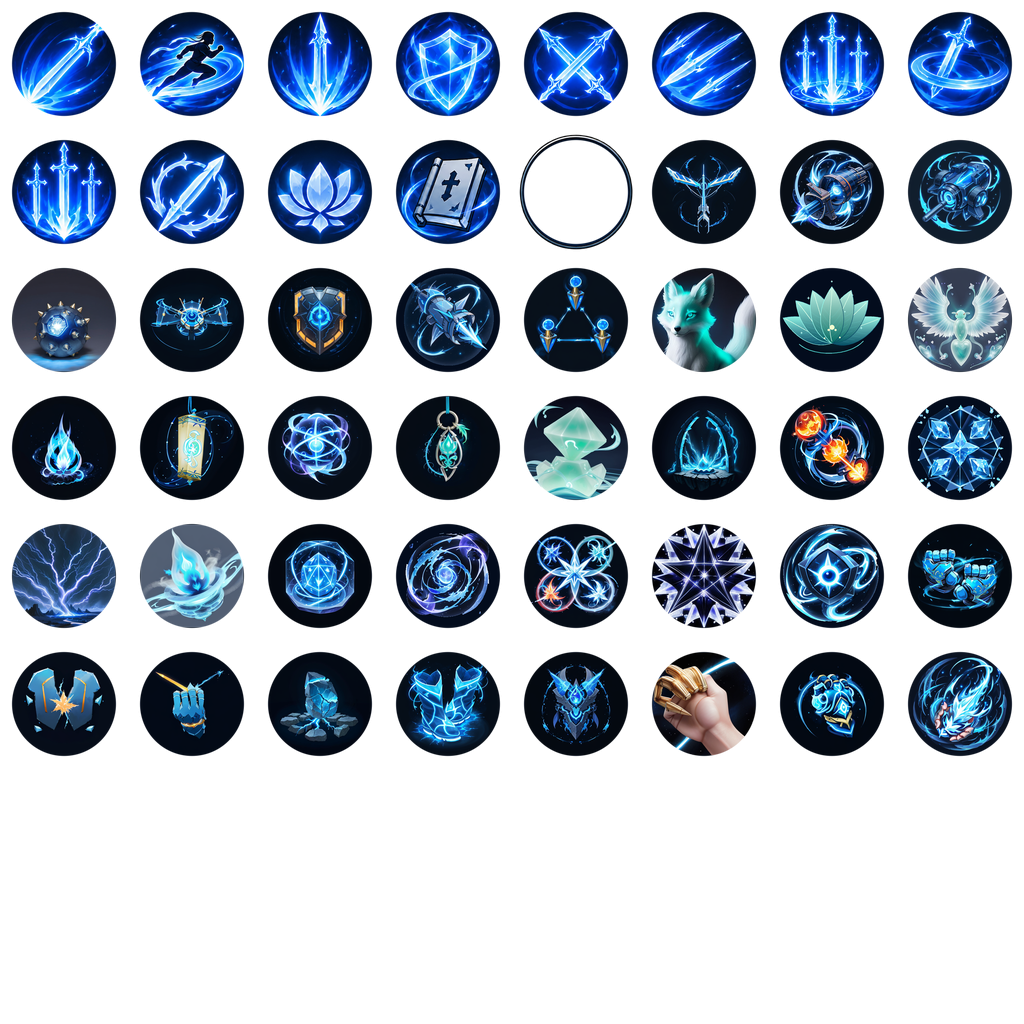
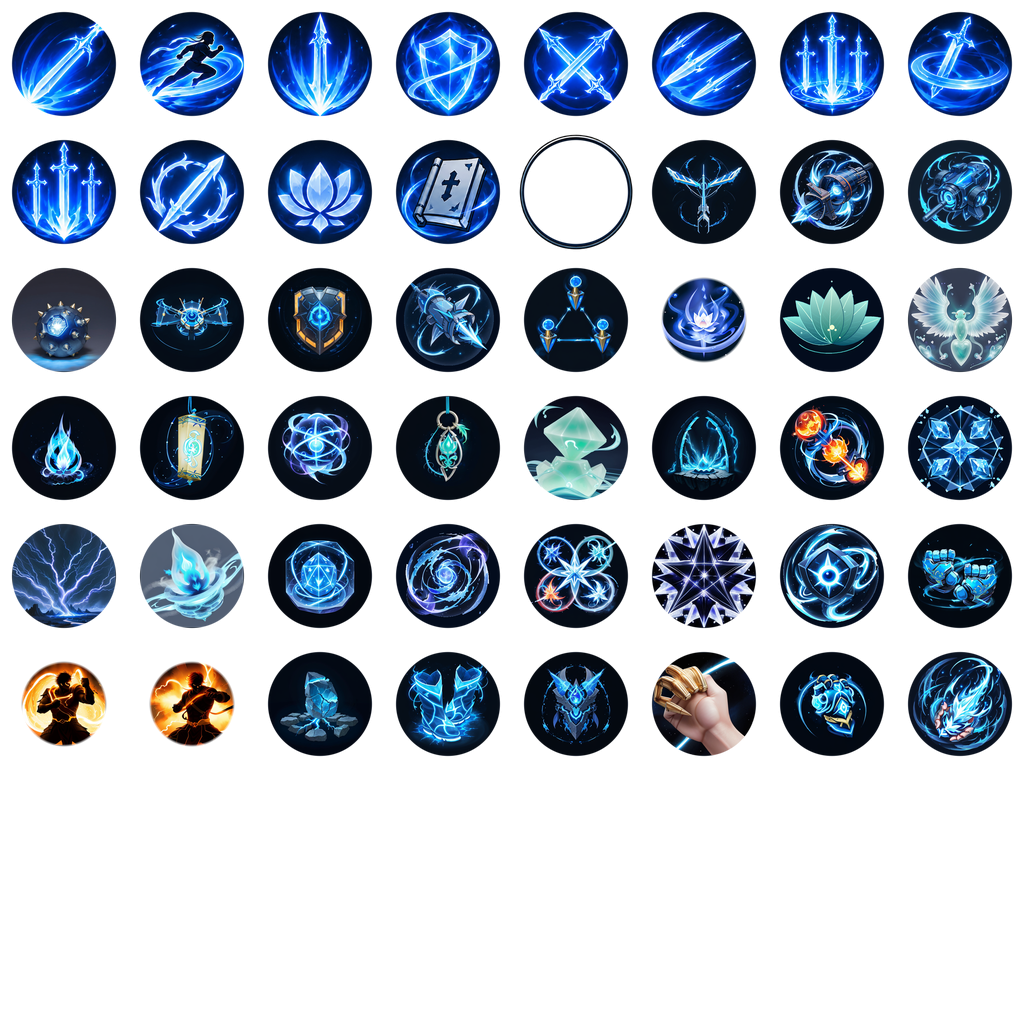
chore: lgo autopilot checkpoint character-hub-v35 - character-hub-demo-linked-inner-revisions-v35
Status: CONTINUE
Phase: character-hub-skill-artwork
Next action: Continue exact-reference Võ/Linh source corrections and item thumbnail ownership; retain shared frame, no inferred renaming.
Reason: Three demonstrated class-reference corrections in Player, not full class acceptance.

Validation:
- Graphics EditMode305/305 nofail/noskip
- Python51/51; RED design-link tests confirmed
- Player87frames; eye15Skill+1Potential
- Exactly3content changed;45modules preserved; PNG/manifest replay exact
- Runtime code/library/importer/frozen unchanged

Changed region(s): [[0.0, 0.625, 0.25, 0.75], [0.625, 0.25, 0.75, 0.375]]

diff --git a/tools/pack_lgo_skill_icons.py b/tools/pack_lgo_skill_icons.py
@@ -30,6 +30,48 @@ BASE_BYTE_BUDGET = 400000
 EXTRA_BYTE_BUDGET = 32768
 
 
+def read_design_bindings(document: dict, registry: Path, library: list[dict], artwork_ids: set[str]) -> list[dict] | None:
+    """Visual links are not gameplay approval; never infer a class or rename a skill."""
+    bindings = document.get('designBindings')
+    if bindings is None:
+        return None
+    if not isinstance(bindings, list) or not bindings:
+        raise ValueError('Design bindings must be a nonempty list')
+    skills = {skill['iconId']: skill for skill in library}
+    seen, result = set(), []
+    for entry in bindings:
+        if not isinstance(entry, dict):
+            raise ValueError('Design binding must be an object')
+        key = entry.get('iconId')
+        if not isinstance(key, str) or key not in artwork_ids or key in seen:
+            raise ValueError('Design binding has duplicate or unregistered artwork')
+        skill = skills[key]
+        if entry.get('classId') != skill['classId'] or entry.get('runtimeName') != skill['name']:
+            raise ValueError('Design binding class/name does not match the unchanged skill library')
+        if entry.get('relation') != 'EXACT_LABEL_VISUAL_ONLY' or entry.get('demoLabel') != skill['name']:
+            raise ValueError('Design label must match exactly; aliases or gameplay approval require a separate decision')
+        ref = entry.get('reference')
+        if not isinstance(ref, dict) or not isinstance(ref.get('path'), str) or not ref['path']:
+            raise ValueError('Design reference missing')
+        path = (registry.parent / ref['path']).resolve()
+        if not path.is_file() or hashlib.sha256(path.read_bytes()).hexdigest() != ref.get('sha256'):
+            raise ValueError('Design reference hash mismatch')
+        with Image.open(path) as image:
+            if image.format != 'PNG' or list(image.size) != ref.get('size') or max(image.size) > 4096:
+                raise ValueError('Design reference PNG/size mismatch')
+            rect = ref.get('rect')
+            if not isinstance(rect, list) or len(rect) != 4 or any(type(v) is not int for v in rect):
+                raise ValueError('Design reference rect requires four integers')
+            x, y, width, height = rect
+            if min(x, y) < 0 or min(width, height) <= 0 or x + width > image.width or y + height > image.height:
+                raise ValueError('Design reference region is outside the source')
+        seen.add(key)
+        result.append({'iconId': key, 'classId': skill['classId'], 'runtimeName': skill['name'],
+                       'demoLabel': entry['demoLabel'], 'relation': 'EXACT_LABEL_VISUAL_ONLY',
+                       'reference': dict(path=str(path), sha256=ref['sha256'], size=ref['size'], rect=rect)})
+    return sorted(result, key=lambda entry: entry['iconId'])
+
+
 def read_artwork_registry(registry: Path | None) -> tuple[list[dict], dict | None]:
     """Register data, not builders: any known skill can supply ring-free art."""
     if registry is None:
@@ -100,6 +142,9 @@ def read_artwork_registry(registry: Path | None) -> tuple[list[dict], dict | Non
                   'review': {'status': 'SELF_REVIEWED', 'evidence': str(evidence.resolve()),
                              'sha256': hashlib.sha256(evidence.read_bytes()).hexdigest()},
                   'pixelPolicy': 'Same fixed 128px canvas and aperture as the base; never fit each symbol by its bounding box.'}
+    bindings = read_design_bindings(document, registry, library, {item['id'] for item in items})
+    if bindings is not None:
+        provenance['designBindings'] = bindings
     return sorted(items, key=lambda item: item['id']), provenance
 
 

diff --git a/tools/test_pack_lgo_skill_icons.py b/tools/test_pack_lgo_skill_icons.py
@@ -212,3 +212,46 @@ class SkillArtworkIntakeTests(unittest.TestCase):
         with self.assertRaisesRegex(ValueError, 'registered artwork'):
             self.packer.pack(output=self.output, registry=self.write_registry(partial))
         self.assertEqual(before, {p.name: p.read_bytes() for p in self.output.iterdir()})
+
+    def add_design_binding(self):
+        import hashlib
+        self.document['designBindings'] = [{
+            'iconId': 'vo_skill_2', 'classId': 'vo', 'runtimeName': 'Phá Giáp',
+            'demoLabel': 'Phá Giáp', 'relation': 'EXACT_LABEL_VISUAL_ONLY',
+            'reference': {'path': self.board.name, 'sha256': hashlib.sha256(self.board.read_bytes()).hexdigest(),
+                          'size': [1536, 1536], 'rect': [10, 20, 100, 120]}}]
+
+    def test_design_binding_preserves_reference_without_changing_skill_data(self):
+        self.add_design_binding()
+        before = (ATLAS / 'skill-library.json').read_bytes()
+        result = self.packer.pack(output=self.output, registry=self.write_registry())
+        self.assertIn('designBindings', result['artworkIntake'])
+        binding = result['artworkIntake']['designBindings'][0]
+        self.assertEqual('vo', binding['classId'])
+        self.assertEqual('Phá Giáp', binding['demoLabel'])
+        self.assertEqual([10, 20, 100, 120], binding['reference']['rect'])
+        self.assertEqual('EXACT_LABEL_VISUAL_ONLY', binding['relation'])
+        self.assertEqual(before, (ATLAS / 'skill-library.json').read_bytes())
+        self.assertFalse(result['runtimeApproved'])
+
+    def test_design_binding_rejects_wrong_class_label_hash_and_region_before_output(self):
+        import copy
+        self.add_design_binding()
+        self.packer.pack(output=self.output)
+        before = {p.name: p.read_bytes() for p in self.output.iterdir()}
+        mutations = [
+            lambda b: b.update(classId='kiem'),
+            lambda b: b.update(demoLabel='Hỏa Thuật'),
+            lambda b: b.update(runtimeName='Renamed Skill'),
+            lambda b: b.update(relation='GAMEPLAY_APPROVED'),
+            lambda b: b['reference'].update(sha256='0' * 64),
+            lambda b: b['reference'].update(rect=[1500, 10, 100, 120]),
+            lambda b: b['reference'].update(rect=[False, 10, 100, 120]),
+        ]
+        for index, mutate in enumerate(mutations):
+            with self.subTest(index=index):
+                document = copy.deepcopy(self.document)
+                mutate(document['designBindings'][0])
+                with self.assertRaisesRegex(ValueError, 'Design'):
+                    self.packer.pack(output=self.output, registry=self.write_registry(document))
+                self.assertEqual(before, {p.name: p.read_bytes() for p in self.output.iterdir()})

diff --git a/docs/execution/NEXT-ACTION.md b/docs/execution/NEXT-ACTION.md
@@ -1,25 +1,27 @@
-# NEXT ACTION — Character Hub / shared Skill artwork
+# NEXT ACTION — Character Hub / icon theo demo gốc
 
-## Active — Hỏa Tuyến còn thiếu; tiếp tục fidelity của nguồn chung
-- Giữ worktree `/Users/minhdc/Projects/LinhGioiOnline/.worktrees/character-hub-v22`, branch `codex/character-hub-v22`, upstream `origin/feature/2d`. Không đổi branch/worktree hoặc restore baseline cũ.
-- Phiên `S-LGO-SKILL-20260916-C9B4`: check pause/recovery và claim trước batch; V3 đã đọc, chưa có task opt-in được giao; CLI v1 tương thích. Không nhả claim hoặc dừng job của phiên khác.
-- Scope vẫn Character Hub5tab theo `redesign-v4-five-tabs`, không mở M0/auth/gameplay/class-pose/wardrobe/renderer/frozen surfaces từ lịch sử.
+## Active — v35: sửa ba nội dung có đối chiếu demo trực tiếp
+- Giữ worktree `/Users/minhdc/Projects/LinhGioiOnline/.worktrees/character-hub-v22`, branch `codex/character-hub-v22`; baseline81d2d2a2. Không đổi/reset/restore branch/worktree.
+- Phiên `S-LGO-SKILL-20260916-C9B4`; task operator mới `T-69b4b27c4b39` đã nhận, batch `B-0876b01f8bd4` đang giữ worktree+Unity. Không tự hoàn thành task, bật auto hoặc duyệt recipe.
+- Owner v34 yêu cầu bám demo mỗi class và các nhóm icon; không quay lại sinh đủ45ảnh theo tên suy diễn. Layout/frame/component chung, nội dung đúng class/chức năng. Không đổi actor/pose/wardrobe/renderer/frozen/gameplay.
 
-## v32 — bốn nội dung mới đã qua Player, KHÔNG visual final
-- Kế thừa6036d501. Thêm Phá Giáp, Phản Đòn, Chấn Kình và Hồi Phục. Hiện44/45skill có art: Võ9, Kiếm9, Pháp9, Cơ8, Linh9. `co_skill_8` Hỏa Tuyến vẫn thiếu.
-- Tạo guide bố cục mới; refine4source. Phản Đòn lần đầu thành nhân vật, Hỏa Tuyến giống lưỡi dao: loại, sửa hình học cả hai và kiểm lại2source. Phản Đòn sau sửa đạt motif; Hỏa Tuyến bị lọc, không nhập hoặc lấy ảnh ẩn trước lọc. Không lặp thêm cùng cách trong batch.
-- Hồi Phục là illustration nguyên bản vẽ trực tiếp bằng recipe, không phải guide tái sử dụng hoặc output đã bị lọc. Nguồn còn phẳng hơn phong cách Kiếm: giữ visual debt này, không gọi production art final.
-- Cùng canvas384+padding32→448 và aperture hiện hành; atlas1024×1024/885216byte,48module=47inner+1frame. Mọi44module cũ giữ nguyên từng pixel. UI/base/library45skill/importer/renderer không đổi.
-- Test candidate RED thiếu4→GREEN3/3; Unity REDvo_skill_2→full graphics305/305 không fail/skip. Python52/52; replay PNG+manifest và portablePNG exact; original healing recipe pixel replay exact.
-- Một Player build0error/0warning,87frame. Đã xem5class×3viewport +Tiềm năngPC; không thấy cắt/chồng mới hoặc rò frame. Số lượng icon không phải mức nghiệm thu visual.
+## Batch đã nhập và kiểm Player, chưa nghiệm thu toàn goal
+- Đối chiếu5nhãn trùng trực tiếp trên2board đã pinSHA: Võ Phá Giáp/Phản Đòn/Hộ Thể; Linh Triệu Linh/Thanh Tẩy. Không thay ID/tên/cấp hoặc coi nhãn trùng là phê duyệt cơ chế gameplay.
+- Đã redraw5source từ vùng demo của đúng class, không dùng embedding/palette Kiếm. Crop board chỉ là guide; không crop/phóng ảnh đó vào Resources.
+- Eye-review chọn3: Phá Giáp/Phản Đòn là bóng võ giả và quyền khí cam-vàng; Triệu Linh là biểu tượng triệu hồi linh lực lam-tím thay chân dung cáo. Loại Hộ Thể vì thành kim loại/floor, Thanh Tẩy vì thành tượng/bệ. Giữ toàn bộ bản bị loại.
+- Candidate48module/1024px/888779byte: chỉ3nội dung đổi,45module khác và frame giữ nguyên pixel. Vẫn44/45skill có ảnh; không dùng số lượng làm visual acceptance.
+- Packer hiện hành thêm optional designBindings: classId/runtimeName/demoLabel/hash/vùng reference phải hợp lệ, quan hệ EXACT_LABEL_VISUAL_ONLY; không tạo builder theo class. Test2RED→wholepacker12GREEN. Liên kết này không tự kiểm chất lượng hình ảnh.
+- [x] Ba nội dung đã nhập; graphics EditMode305/305 không skip, Python51/51; build0error/0warning;87frame, eye5class×3viewport +Tiềm năngPC. Đúng3module đổi,45module giữ pixel; replay exact và portablePNG exact.
+- [ ] Chỉ commit/push khi batch kiểm đủ; đóng batch, tạo checkpoint/turnV3 và WAITING_USER. Không tự task.complete.
 
-## Batch kế tiếp
-1. Check checkpoint/pause/registry; xử lý đúng `co_skill_8` Hỏa Tuyến. Không dùng hai bản thử đã loại, không thay bằng skill khác hoặc HUD. Cần hình hỏa lực/tracer rõ ở nguồn và128px, không đơn thuần hai lưỡi sáng.
-2. Gom phần cần polish ở source: độ lấp đầy của Phản Đòn/Chấn Kình và một số Cơ/Linh; nét/nền/phong cách của source cũ còn không đồng nhất. Không thêm offset/scale hoặc builder theo class để che vấn đề nguồn.
-3. Registry tích lũy35inner bổ sung hiện hành; nguồn revision phải có ID/hash/review và pixel-diff các module không đổi. Giữ frame/category/Kiếm gốc.
-4. Gom source một batch, RED khi thêmID, rồi full graphics+Player3viewport/eye audit trước checkpoint/push qua supervisor. Không mở screen khác hoặc gọi final vì đủ45ảnh.
+## Việc tiếp theo sau batch
+- Tiếp tục nhóm Võ/Linh có đối chiếu chức năng rõ; xử lý các tên/cấp mâu thuẫn bằng crosswalk, không tự ép11mốc demo thành9skill.
+- Item thumbnail resolver hiện trả bộ iconKiếm theo slot trước class: sửa bằng ownership itemId/class/set ở batch riêng, không thay actor/wardrobe.
+- Category/HUD/status/attribute là icon chức năng dùng chung; pet portrait theo petId, pet skill theo petSkillId. Không lấy portrait làm spell chỉ vì cùng chủ đề.
+- Hỏa Tuyến vẫn thiếu; nhiều artwork class cũ vẫn bị owner bác. Đây chưa phải nghiệm thu toàn CharacterHub.
 
-## Evidence / provenance
-`build/character-hub-last-five-v32/`: art-review.json, review.json, source-painting-manifest.json, guide/refine recipes, registry, raw/corrections/authored, modules/, full-editmode.xml, runtime/, owned-processes.json, player-processes.json, ZIPauthoring+SHA.
-`runtime/` là ảnh Player thật; `source-composite-review.png` chỉ ảnh nguồn/lắp lớp. Guides không vào Resources. Gói authoring là nguồn/recipe/provenance, không giải nén source board vào Unity.
-`CONTINUE / VISUAL_FIX_REQUIRED / ARTWORK_INCOMPLETE` — còn1icon thiếu, chưa nghiệm thu art toàn5tab hoặc mobile/tablet thiết bị thật.
+## Evidence / WIP
+`build/character-hub-demo-alignment-v35/`: mapping.json, source-registration.json, reference-review.png, source-comparison.png, art-review.json, candidate-atlas/, published/, prior-wip/, generation.json và logs. Source comparison KHÔNG phải Player.
+Audit gốc: `build/character-hub-design-reconciliation-v34/DESIGN-AUDIT.md` và review-notes.json. build_audit.py v34 viết dở, không dùng như evidence đã chạy.
+Test matte v33 chưa có implementation đã chuyển nguyên byte vào build/character-hub-demo-alignment-v35/deferred-v33, không đưa vào checkpoint asset này. Không xóa công sức cũ hoặc bỏ test thuộc implementation đã chấp nhận.
+`CONTINUE / VISUAL_FIX_REQUIRED / PARTIAL_DEMO_ALIGNMENT` — bộ icon toàn5class chưa đạt design.

diff --git a/docs/execution/PROJECT-STATE.md b/docs/execution/PROJECT-STATE.md
@@ -1,3 +1,23 @@
+## Character Hub v35 — sửa nội dung từ demo gốc, không chỉ đủ số lượng — 2026-09-16
+
+- Giữ81d2d2a2 làm base, codex/character-hub-v22/worktree cũ. Phiên S-LGO-SKILL-20260916-C9B4 nhận task T-69b4b27c4b39 và batch B-0876b01f8bd4 của operator; không tự hoàn thành task hoặc bật tự gửi.
+- Đối chiếu5nhãn demo trực tiếp, redraw đúng class: nhập3bản Phá Giáp/Phản Đòn màu quyền khí cam-vàng và Triệu Linh là biểu tượng linh lực lam-tím. Loại2bản Hộ Thể/Thanh Tẩy sai chất liệu/bệ tượng. Không dùng crop reference làm runtime asset, không tint/UI scale riêng.
+- Một atlas1024×1024/888779byte,48module/1frame,45module trước giữ nguyên pixel. Vẫn44/45skill có ảnh; phần lớn bộ class chưa đạt design, không lấy số lượng làm nghiệm thu.
+- Existing packer thêm designBindings kiểm class/name/label/hash/region và giữ provenance; không sửa library45skill hoặc UI runtime/renderer/importer. Đây là visual-only relation, không tự duyệt gameplay hoặc tự nhận diện nội dung hình.
+- RED2tests/8failures đúng nguyên nhân → packer12PASS; full graphics EditMode305/305 nofail/noskip; Python51/51. Build0error/0warning,87frame; đã xem15ảnhSkill5class×3viewport +Tiềm năngPC. Không thấy cắt/chồng/frame rò mới trong ảnh đã xem; cả Võ/Linh vẫn lẫn nhiều artwork cũ sai phong cách.
+- PNG+manifest replay exact; portablePNG replay exact. Nguồn/registry/README/frame và modules tách rời ở build/character-hub-demo-alignment-v35, ZIPauthoring+SHA. Test matte untrackedv33 được giữ nguyên byte trong deferred-v33, không thuộc implementation đã chấp nhận.
+- CONTINUE / PARTIAL_DEMO_ALIGNMENT / VISUAL_FIX_REQUIRED. Tiếp tục crosswalk và sửa đúng nhóm class, đồng thời giữ backlog lỗi itemId/class/set thumbnail. Không claim toàn5tab hoặc thiết bị mobile/tablet thật đã nghiệm thu.
+
+## Character Hub v34 — owner review: phải theo demo từng class — 2026-09-16
+
+- Owner xác nhận các bộ icon chưa đúng design. Active chuyển từ sửa nền/sinh đủ44→45 sang đối chiếu demo gốc và sửa nguồn/ownership; không coi test xanh hoặc số lượng ảnh là nghiệm thu mỹ thuật.
+- Đã xem16board class/material,3UIv4 và5ảnh Playerv32. Audit ở build/character-hub-design-reconciliation-v34/DESIGN-AUDIT.md và review-notes.json; JSON đã parse đủ5class và6nhóm icon khác. Không có artwork/Player mới trong lượt audit.
+- Palette/hình tác dụng bị lệch: Võ cam-vàng quyền khí, Linh tím-trắng phù/ấn/linh thể, Cơ cơ giới/đạn/drone chứ không chỉ huy hiệu xanh; Kiếm không phải source nội dung cho tất cả class.
+- Có xung đột tên/tiến trình giữa overview/detail/current library. Không tự đổi runtimeId/tên/cấp hoặc ép11mốc thành9skill; phải có source crosswalk trước khi thay hình. UIv4 là authority layout, classboard là visual reference, không gameplay contract.
+- Icon trang bị có lỗi sở hữu nội dung: GetEquipmentThumbnailSprite trả atlas theo slot trước class; atlas là bộ Kiếm. Cần lookup itemId/class/set qua dữ liệu chung, không class-specific builder hoặc sửa renderer/wardrobe.
+- V33 test matte còn WIP không implementation; giữ nhưng hoãn. v34 build_audit.py viết dở do append bị từ chối, chưa chạy, không có HTML/CSV tự động. Báo cáo Markdown/JSON đã lưu được.
+- Giữ81d2d2a2/codex/character-hub-v22/worktree cũ. Chưa commit/push, không đổi runtime/asset/frozen. Trạng thái CONTINUE / DESIGN_MISMATCH_CONFIRMED / VISUAL_FIX_REQUIRED; bước kế tiếp ở NEXT-ACTION.md.
+
 ## Character Hub v32 — bốn inner mới đã kiểm Player — 2026-09-16
 
 - Giữ cùng worktree/branch/phiên S-LGO-SKILL-20260916-C9B4; kế thừa6036d501. Scope chỉ5tab design đã duyệt, không mở taskM0/auth/combat/class/pose/wardrobe/renderer/frozen.
